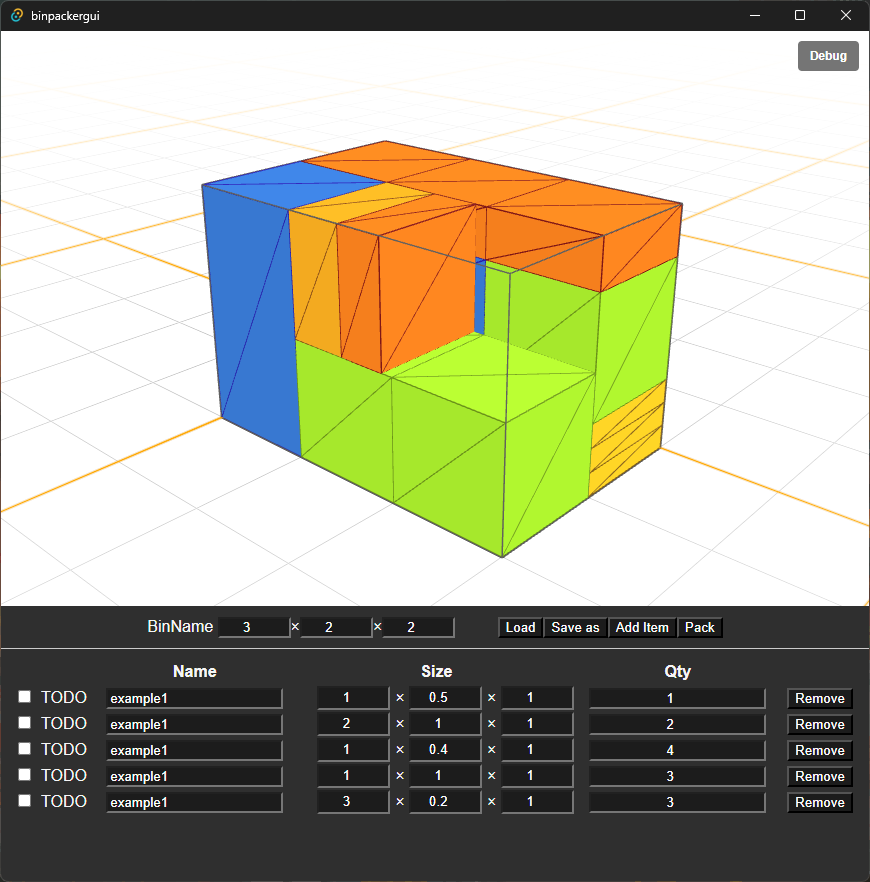
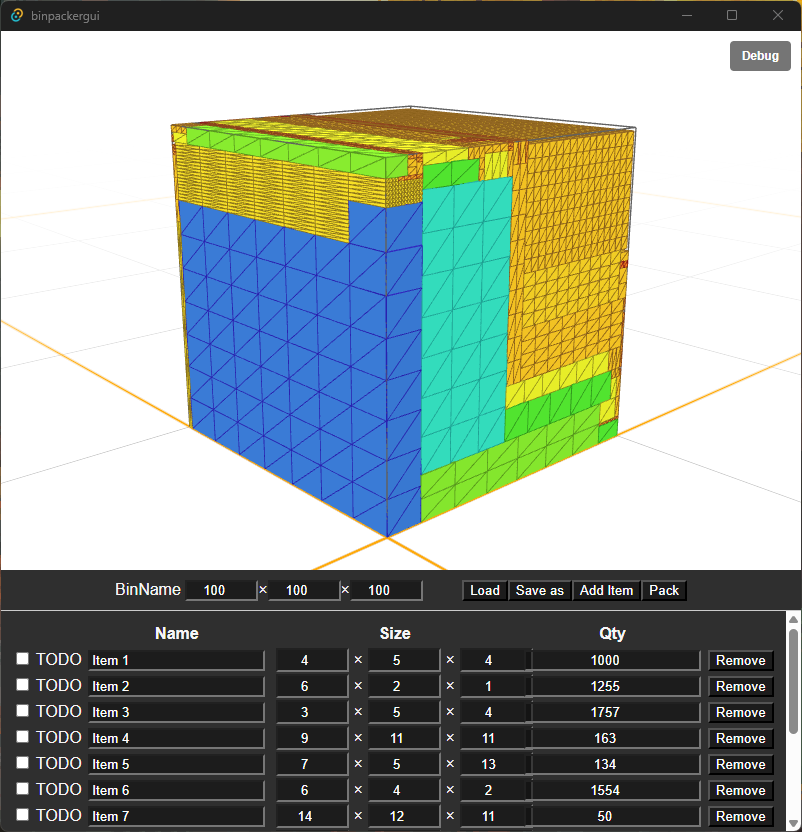
Update README

diff --git a/README.md b/README.md
@@ -2,7 +2,7 @@
 
 ![](/public/prototype.png)
 
-#### **STATUS**: WIP! Rough UI is in place. The algo is generally working and is able to fill a single bin fairly reliably, with good performance.
+#### **STATUS**: WIP! Rough UI is in place. The algo is working and often finds optimal or close to optimal solutions, with good performance.
 
 #### **CURRENT FOCUS**: Continue to refine algo logic, and start styling the presentation with the current feature set.
 
@@ -18,7 +18,7 @@ To run: ```npm run tauri dev```
 ## Todo list
 
 Performance:
-- [ ] Render items incrementally (large quantity of items packs faster than it renders!)
+- [ ] Render items incrementally (larger quantities of items packs faster than it renders!)
 - [x] Use instanced meshes for identical items, to reduce draw calls on render
 - [ ] Hardware acceleration (Currently CPU only)
 
